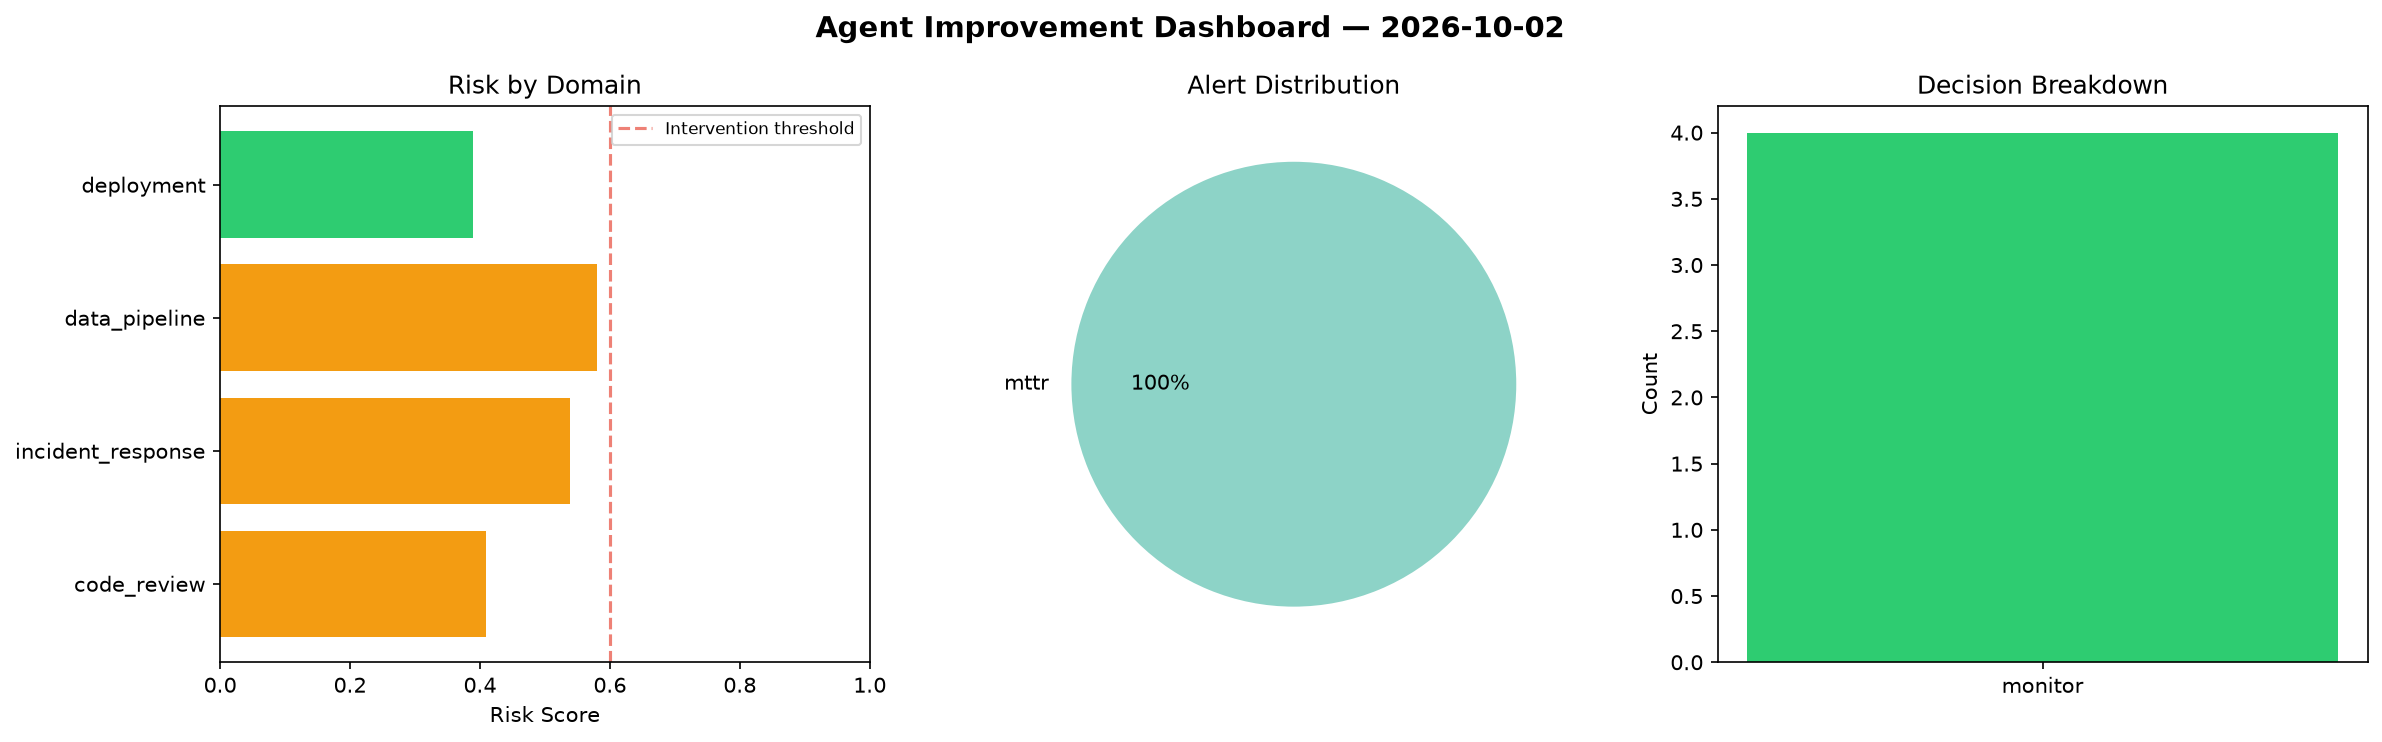
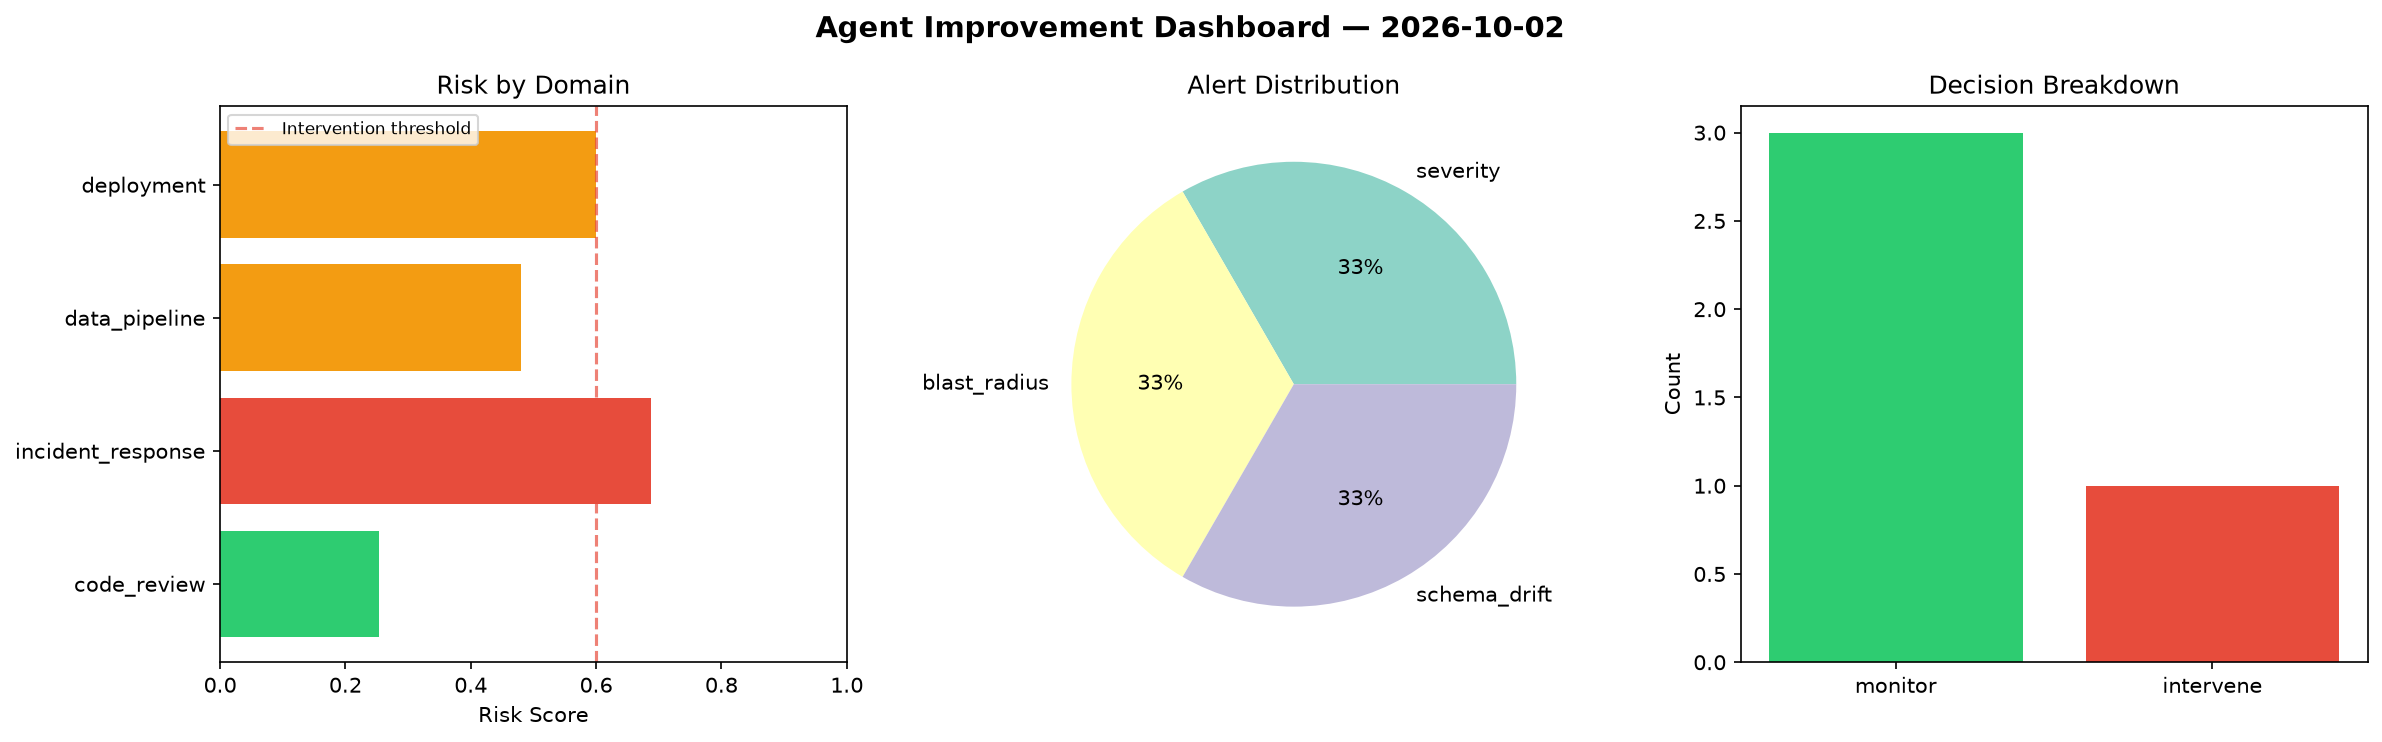
agent-improvement: daily cycle 2026-10-02T14:44

diff --git a/logs/2026-10-02.md b/logs/2026-10-02.md
@@ -1,6 +1,6 @@
 # Agent Improvement Report — 2026-10-02
 
-**Cycle ID:** `29aa1418` | **Avg Risk:** 0.4797 | **Interventions:** 0/4
+**Cycle ID:** `a4ff6dfa` | **Avg Risk:** 0.5053 | **Interventions:** 1/4
 
 ![Dashboard](2026-10-02_dashboard.png)
 
@@ -10,18 +10,18 @@
 
 | Domain | Risk Score | Decision | Alerts |
 |--------|-----------|----------|--------|
-| code_review | 0.4096 | monitor | none |
-| incident_response | 0.5388 | monitor | mttr |
-| data_pipeline | 0.5804 | monitor | none |
-| deployment | 0.3899 | monitor | none |
+| code_review | 0.2528 | monitor | none |
+| incident_response | 0.6882 | intervene | severity, blast_radius |
+| data_pipeline | 0.4802 | monitor | schema_drift |
+| deployment | 0.6 | monitor | none |
 
 ## Delta vs Yesterday
 
 | Domain | Today | Yesterday | Change |
 |--------|-------|-----------|--------|
-| code_review | 0.4096 | 0.2265 | 📈 80.8% |
-| incident_response | 0.5388 | 0.427 | 📈 26.2% |
-| data_pipeline | 0.5804 | 0.6904 | 📉 -15.9% |
-| deployment | 0.3899 | 0.6 | 📉 -35.0% |
+| code_review | 0.2528 | 0.2265 | 📈 11.6% |
+| incident_response | 0.6882 | 0.427 | 📈 61.2% |
+| data_pipeline | 0.4802 | 0.6904 | 📉 -30.4% |
+| deployment | 0.6 | 0.6 | ➡ 0.0% |
 
-**Refinement:** `{'adjustment': 'maintain', 'trend': 'improving', 'window': 4}`
+**Refinement:** `{'adjustment': 'tighten_thresholds', 'trend': 'degrading', 'window': 4}`
